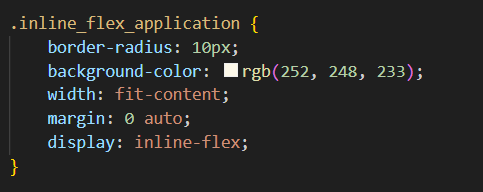
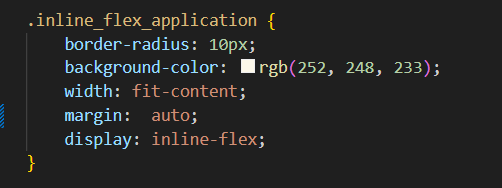
Add- Terminei minha parte

diff --git a/style.css b/style.css
@@ -79,7 +79,7 @@ body {
     border-radius: 10px;
     background-color: rgb(252, 248, 233);
     width: fit-content;
-    margin: 0 auto;
+    margin: auto;
     display: table;
 }
 
@@ -87,7 +87,7 @@ body {
     border-radius: 10px;
     background-color: rgb(252, 248, 233);
     width: fit-content;
-    margin: 0 auto;
+    margin:  auto;
     display: inline-flex;
 }
 
@@ -106,7 +106,7 @@ body {
     border-radius: 10px;
     background-color: rgb(252, 248, 233);
     width: fit-content;
-    margin: 0 auto;
+    margin:  auto;
     display: grid;
     grid-template-columns: repeat(2, 1fr);
 }
@@ -115,7 +115,7 @@ body {
     border-radius: 10px;
     background-color: rgb(252, 248, 233);
     width: fit-content;
-    margin: 0 auto;
+    margin:  auto;
     display: inline-grid;
     grid-template-columns: auto auto;
     gap: 10px;

diff --git a/index.html b/index.html
@@ -207,7 +207,7 @@
                 </div>
                 <div class="image_code">
                     <h4>CSS</h4>
-                    <img src="assets/table_css.png" alt="code CSS">
+                    <img src="assets/inline-flex_css.png" alt="code CSS">
                 </div>
             </div>
         </div>
